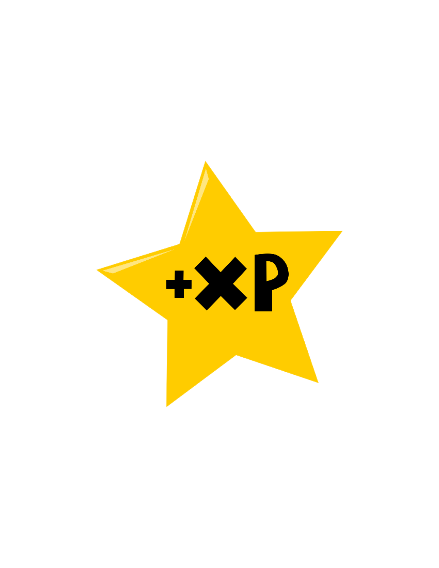
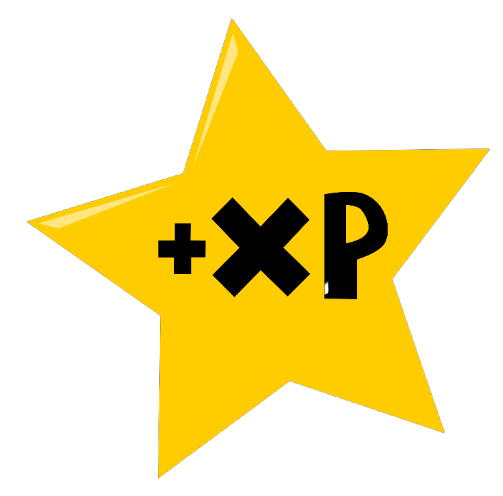
feat: SVG convertidos en PNG correctamente

Changed region(s): [[0.0592, 0.0302, 0.9772, 0.9677]]

diff --git a/app/components/learn/ProgressFooter.tsx b/app/components/learn/ProgressFooter.tsx
@@ -17,7 +17,7 @@ export function ProgressFooter({ xp, streak, daysStudying }: Props) {
       <View style={s.stat}>
         <Image
           source={require('../../assets/images/graphic/iconos_oscuros/graphic/XP_icon.png')}
-          style={s.icon}
+          style={{width: 80, height: 80, left: -6}}
           resizeMode="contain"
         />
         <Text style={[s.statValue, { color: '#22C55E' }]}>{xp}</Text>
@@ -45,7 +45,7 @@ export function ProgressFooter({ xp, streak, daysStudying }: Props) {
       <View style={s.stat}>
         <Image
           source={require('../../assets/images/graphic/iconos_oscuros/graphic/streak_icon.png')}
-          style={s.icon}
+          style={{width: 80, height: 80, }}
           resizeMode="contain"
         />
         <Text style={[s.statValue, { color: '#FF4500' }]}>
